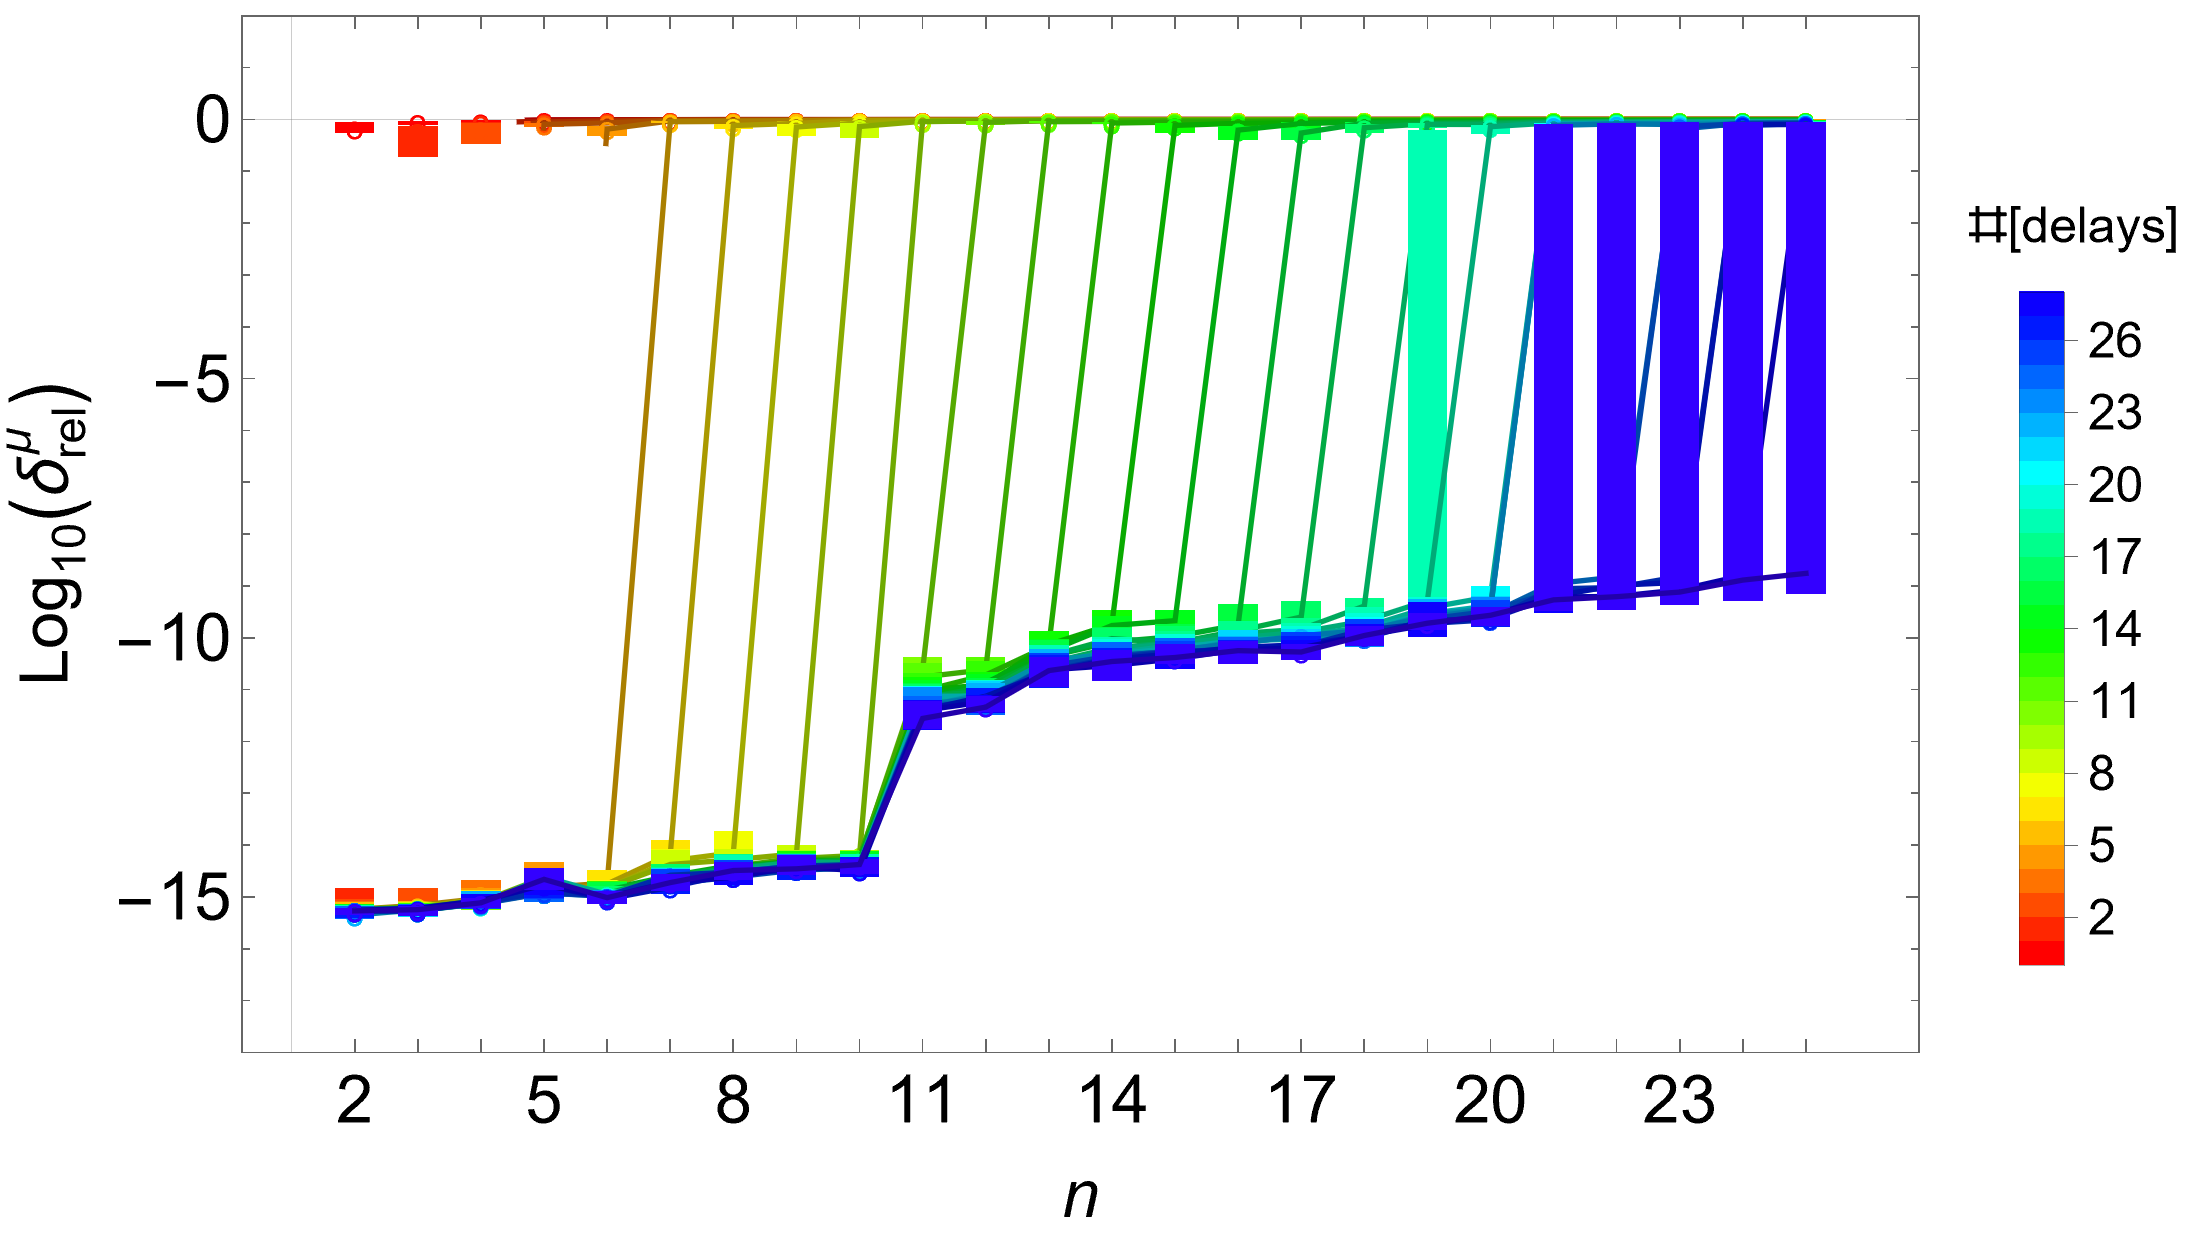
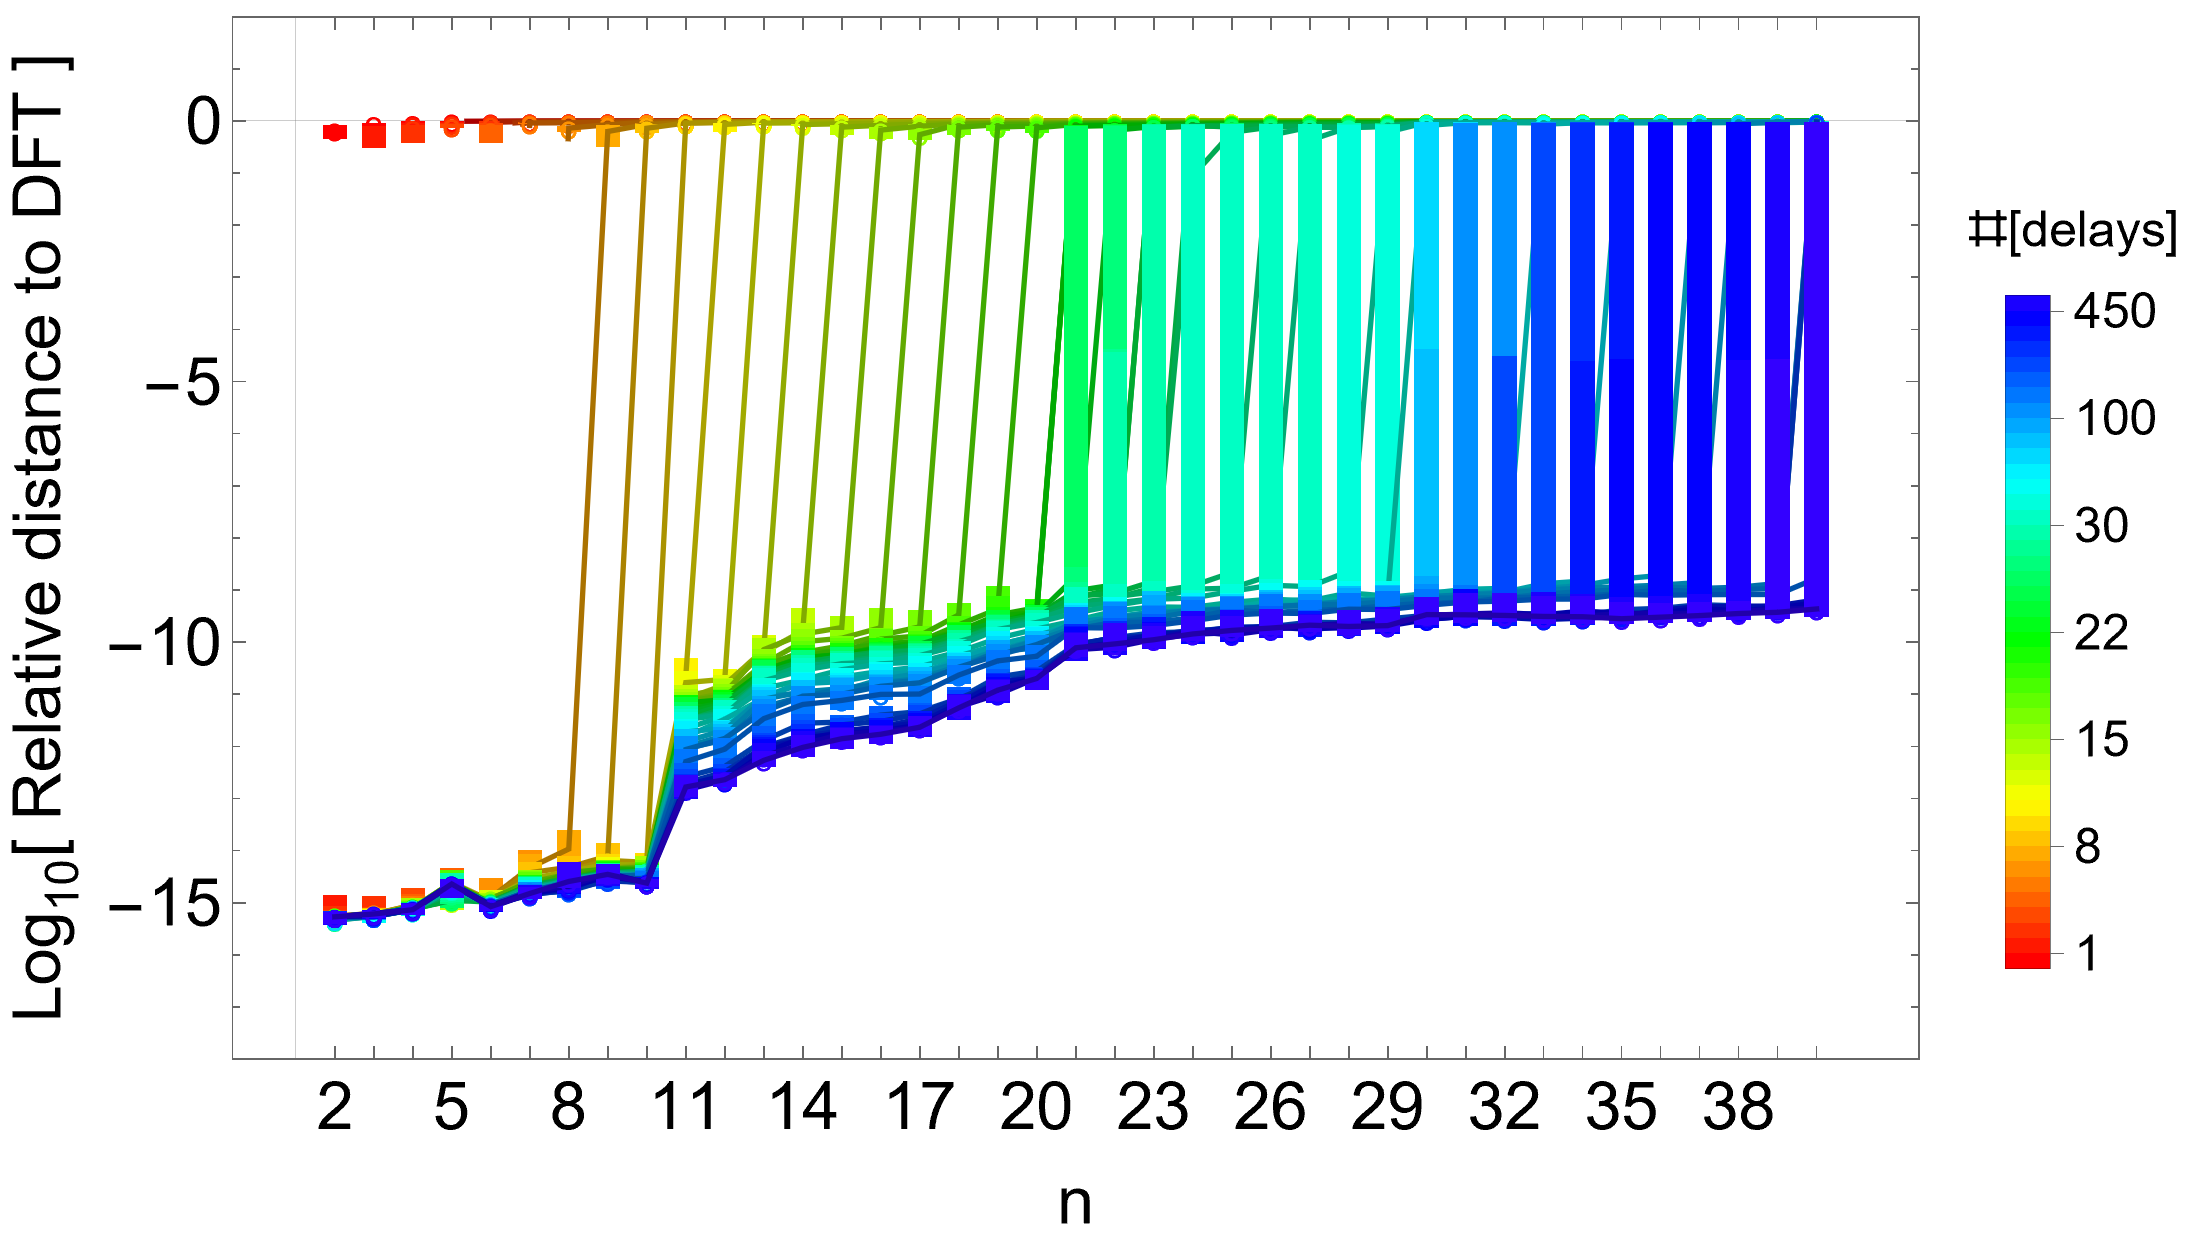
Friendly labels in DMD_DFT plots

diff --git a/examples/vdp.m b/examples/vdp.m
@@ -30,7 +30,7 @@ AssociateTo[crunchgrub,savefile ->FileBaseName[NotebookFileName[]](* Name savefi
 crunchgrub[plotdir] = FileNameJoin[{FileNameJoin[Drop[FileNameSplit[NotebookFileName[]],-2]],"plots"}];
 
 
-(* ::Chapter:: *)
+(* ::Chapter::Closed:: *)
 (*Computation*)
 
 
@@ -50,7 +50,7 @@ crunchgrub[plotdir] = FileNameJoin[{FileNameJoin[Drop[FileNameSplit[NotebookFile
 (*DMD model order (n) : minn \[LongRightArrow] maxn*)
 
 
-AssociateTo[plotgrub,{testdelays -> Range[0,28](*{6,25,50,100,200,400}*), testdegs-> Range[2,25]}];
+AssociateTo[plotgrub,{testdelays -> DeleteDuplicates@Join[Range[0,28],Range[30,100,10],Range[100,500,50]](*{6,25,50,100,200,400}*), testdegs-> Range[2,40]}];
 
 
 (* ::Subsubsection::Closed:: *)
@@ -324,7 +324,7 @@ trajgrub[covmat]= trajgrub[noiseSD]^2*IdentityMatrix[liftgrub[crows]];
 (*nICs = #[trajectories] to analyse*)
 
 
-nICs = 50;
+nICs = 100;
 
 
 (* ::Subsubsection::Closed:: *)
@@ -389,7 +389,7 @@ basicolourlist = Array[Hue[#]&,Length@crunchgrub[testdelays],{0,0.7 (* The end o
 (*(*Get[crunchgrub[savefile]];*)*)
 
 
-(* ::Chapter::Closed:: *)
+(* ::Chapter:: *)
 (*Post-processing*)
 
 
@@ -451,7 +451,7 @@ basicolourlist = Array[Hue[#]&,Length@crunchgrub[testdelays],{0,0.7 (* The end o
 
 
 (* ::Input:: *)
-(*dmddftdeviationplot = stdBWplot[crunchgrub[testdegs],splog10@ensembledat,basicolourlist,delayscolored,HoldForm[n],HoldForm[Subscript[Log, 10][\!\(\*SubsuperscriptBox[\(\[Delta]\), \(rel\), \(\[Mu]\)]\)]],{-17,1},Transparent]*)
+(*dmddftdeviationplot = stdBWplot[crunchgrub[testdegs],splog10@ensembledat,basicolourlist,delayscolored,"n","\!\(\*SubscriptBox[\(Log\), \(10\)]\)[ Relative distance to DFT ]",{-17,1},Transparent]*)
 
 
 (* ::Input:: *)

diff --git a/examples/cavity.m b/examples/cavity.m
@@ -47,7 +47,7 @@ AssociateTo[trajgrub, vfield -> "30k"];
 (*Computations*)
 
 
-(* ::Section:: *)
+(* ::Section::Closed:: *)
 (*Temporal parameters*)
 
 
@@ -75,7 +75,7 @@ crunchgrub[maxdelays] = Max@ crunchgrub[testdelays];
 
 
 
-(* ::Subsection::Closed:: *)
+(* ::Subsection:: *)
 (*DS specs*)
 
 
@@ -83,7 +83,7 @@ crunchgrub[maxdelays] = Max@ crunchgrub[testdelays];
 (*AssociateTo[trajgrub, chosenputty -> (#&) ];*)
 
 
-(* ::Subsubsection::Closed:: *)
+(* ::Subsubsection:: *)
 (*Get addresses and load the cavity data*)
 
 
@@ -336,7 +336,7 @@ trajgrub[covmat]= trajgrub[noiseSD]^2*IdentityMatrix[liftgrub[crows]];
 (*(*Abs[trajgrub[discevals]]*)*)
 
 
-(* ::Section:: *)
+(* ::Section::Closed:: *)
 (*Analyse each trajectory, for all possible hyper-parameters.*)
 
 
@@ -413,7 +413,7 @@ trajgrub[covmat]= trajgrub[noiseSD]^2*IdentityMatrix[liftgrub[crows]];
 (*DMD-DFT transition*)
 
 
-(* ::Subsubsection:: *)
+(* ::Subsubsection::Closed:: *)
 (*Parse data into a matrix form*)
 
 
@@ -443,7 +443,7 @@ trajgrub[covmat]= trajgrub[noiseSD]^2*IdentityMatrix[liftgrub[crows]];
 
 
 (* ::Input:: *)
-(*dmddftdeviationplot = stdBWplot[crunchgrub[testdegs],splog10@ensembledat,basicolourlist,delayscolored,HoldForm[n],HoldForm[Subscript[Log, 10][\!\(\*SubsuperscriptBox[\(\[Delta]\), \(rel\), \(\[Mu]\)]\)]],{-17,1},Transparent]*)
+(*dmddftdeviationplot = stdBWplot[crunchgrub[testdegs],splog10@ensembledat,basicolourlist,delayscolored,"n","\!\(\*SubscriptBox[\(Log\), \(10\)]\)[ Relative distance to DFT ]",{-17,1},Transparent]*)
 
 
 (* ::Input:: *)

diff --git a/examples/lti.m b/examples/lti.m
@@ -38,7 +38,7 @@ crunchgrub[lticase] = "3";
 (*crunchgrub[plotdir] = FileNameJoin[{FileNameJoin[Drop[FileNameSplit[NotebookFileName[]],-2]],"plots"}];*)
 
 
-(* ::Chapter:: *)
+(* ::Chapter::Closed:: *)
 (*Computation*)
 
 
@@ -463,7 +463,7 @@ basicolourlist = Array[Hue[#]&,Length@crunchgrub[testdelays],{0,0.7 (* The end o
 
 
 (* ::Input:: *)
-(*dmddftdeviationplot = stdBWplot[crunchgrub[testdegs],splog10@ensembledat,basicolourlist,delayscolored,HoldForm[n],HoldForm[Subscript[Log, 10][\!\(\*SubsuperscriptBox[\(\[Delta]\), \(rel\), \(\[Mu]\)]\)]],{-17,1},Hue[0.8]]*)
+(*dmddftdeviationplot = stdBWplot[crunchgrub[testdegs],splog10@ensembledat,basicolourlist,delayscolored,"n","\!\(\*SubscriptBox[\(Log\), \(10\)]\)[ Relative distance to DFT ]",{-17,1},Hue[0.8]]*)
 
 
 (* ::Input:: *)
